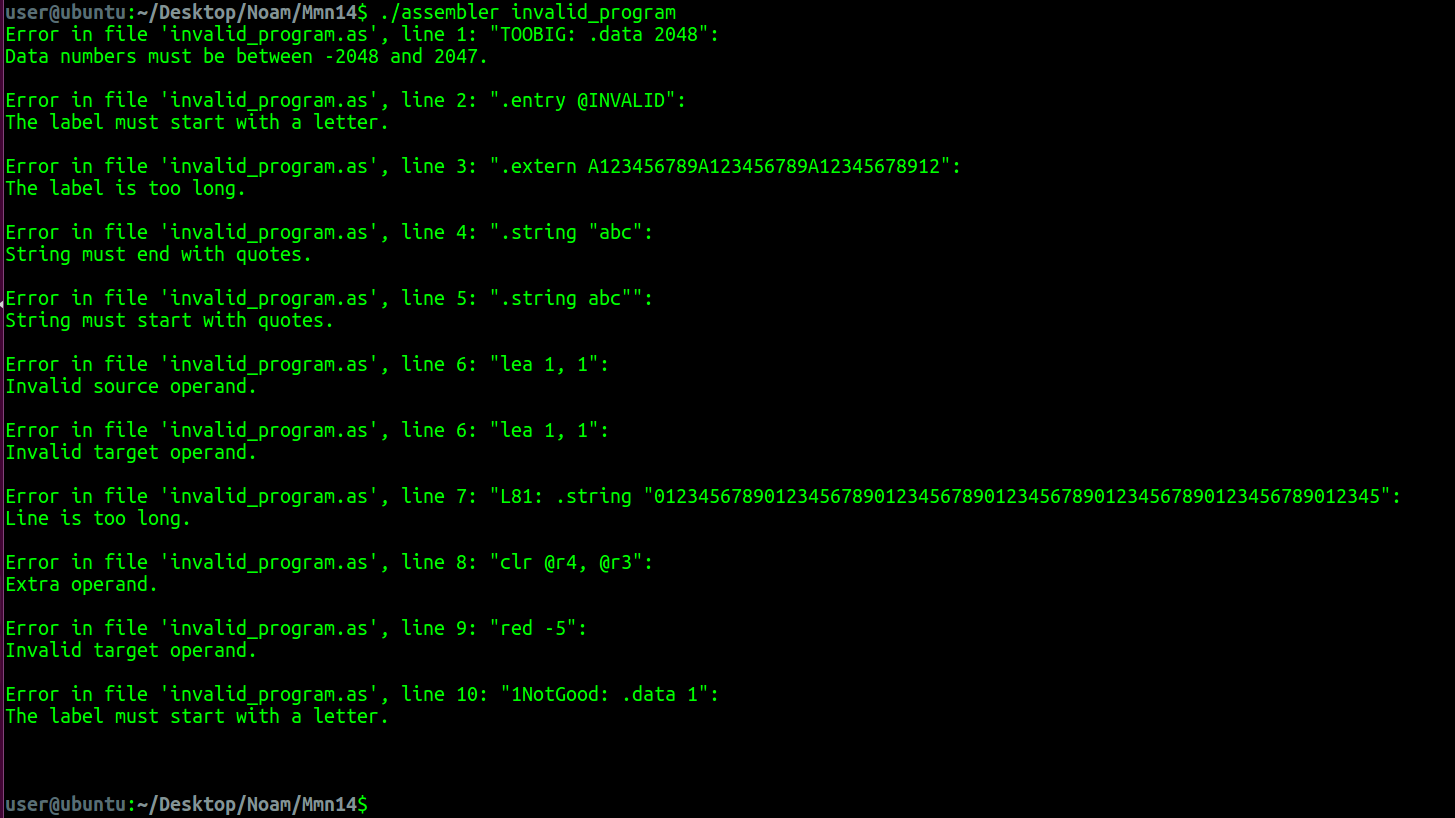
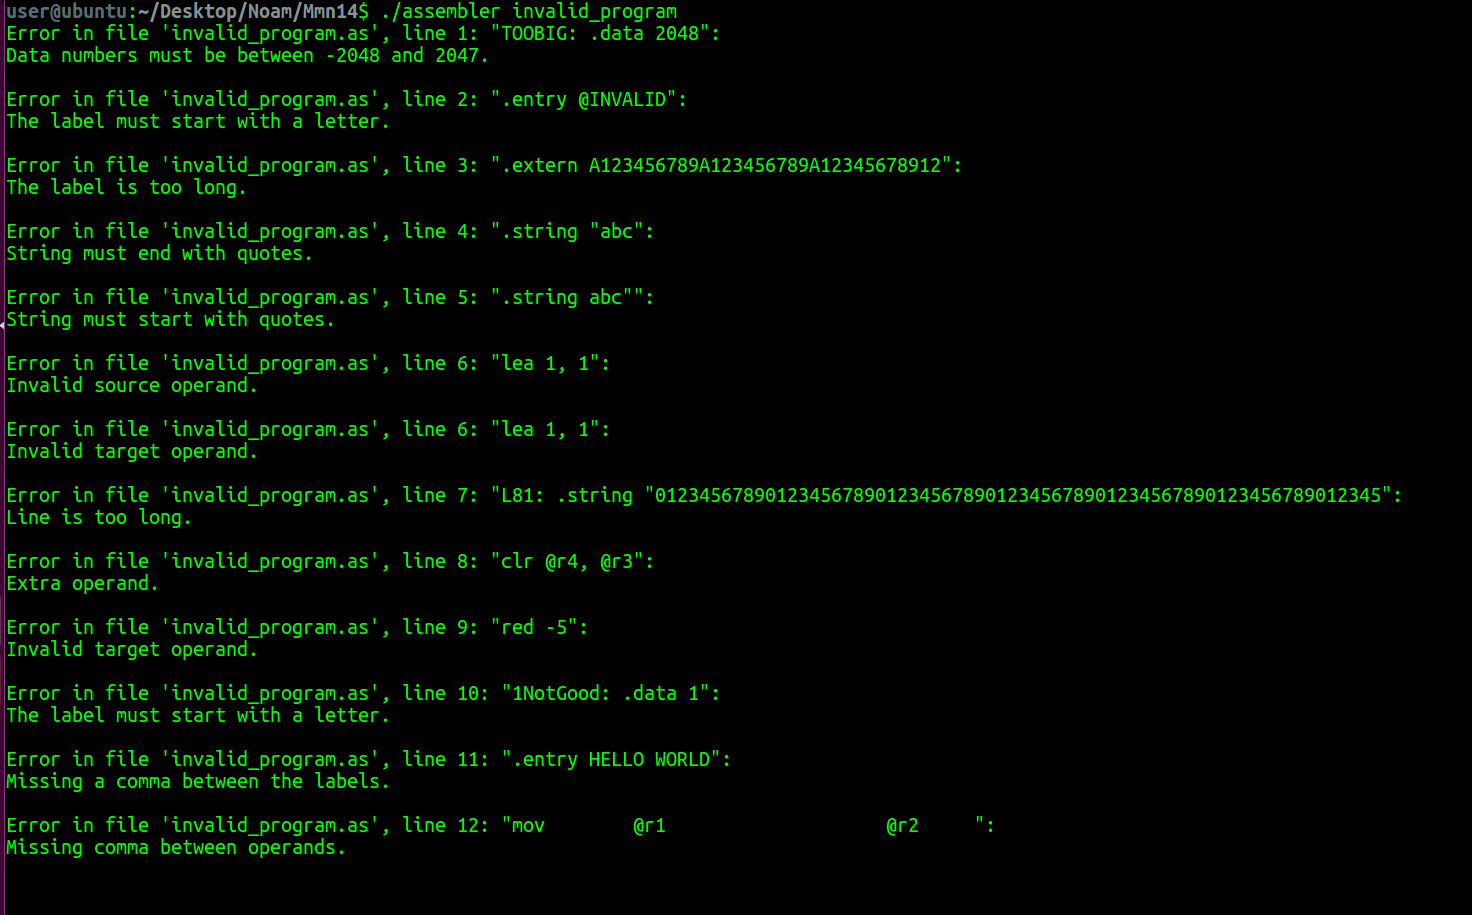
add outputs

diff --git a/Assembler/tables.c b/Assembler/tables.c
@@ -268,7 +268,7 @@ boolean add_entry_to_table(line_info* line, symbols_table_entry* symbols_table_h
         /* Look for the comma */
         skip_white_spaces(&entry_lables);
         if (!check_comma(&entry_lables) && !end_of_string(entry_lables)){
-            PRINT_ERROR(line->file_name, line->line_number, line->line_content, "missing a comma between the labels");
+            PRINT_ERROR(line->file_name, line->line_number, line->line_content, "Missing a comma between the labels.");
             return FALSE;
         }
         /* Check if it's a bad lable */
@@ -287,7 +287,7 @@ boolean add_entry_to_table(line_info* line, symbols_table_entry* symbols_table_h
 
     /* If theres a lable print a warning */
     if (line->label_flag) {
-        printf("Warning: in line %ld %s\n label `%s` is being igored\n", line->line_number, line->line_content, token);
+        printf("Warning: in line %ld %s\nLabel `%s` is being ignored.\n", line->line_number, line->line_content, token);
     }
     return TRUE;
 }

diff --git a/Assembler/info_check.c b/Assembler/info_check.c
@@ -284,6 +284,10 @@ boolean check_extra_or_missing_operands(line_info* line) {
             PRINT_ERROR(line->file_name, line->line_number, line->line_content, "Invalid characters after end of command.");
             return FALSE;
         }
+        if (!line->comma_flag) {
+            PRINT_ERROR(line->file_name, line->line_number, line->line_content, "Missing comma between operands.");
+            return FALSE;
+        }
     }
     /* Checking not, clr, inc, dec, jmp, bne, red, prn, jsr commands */
     else if (strcmp(line->opcode, "not") == 0 ||
